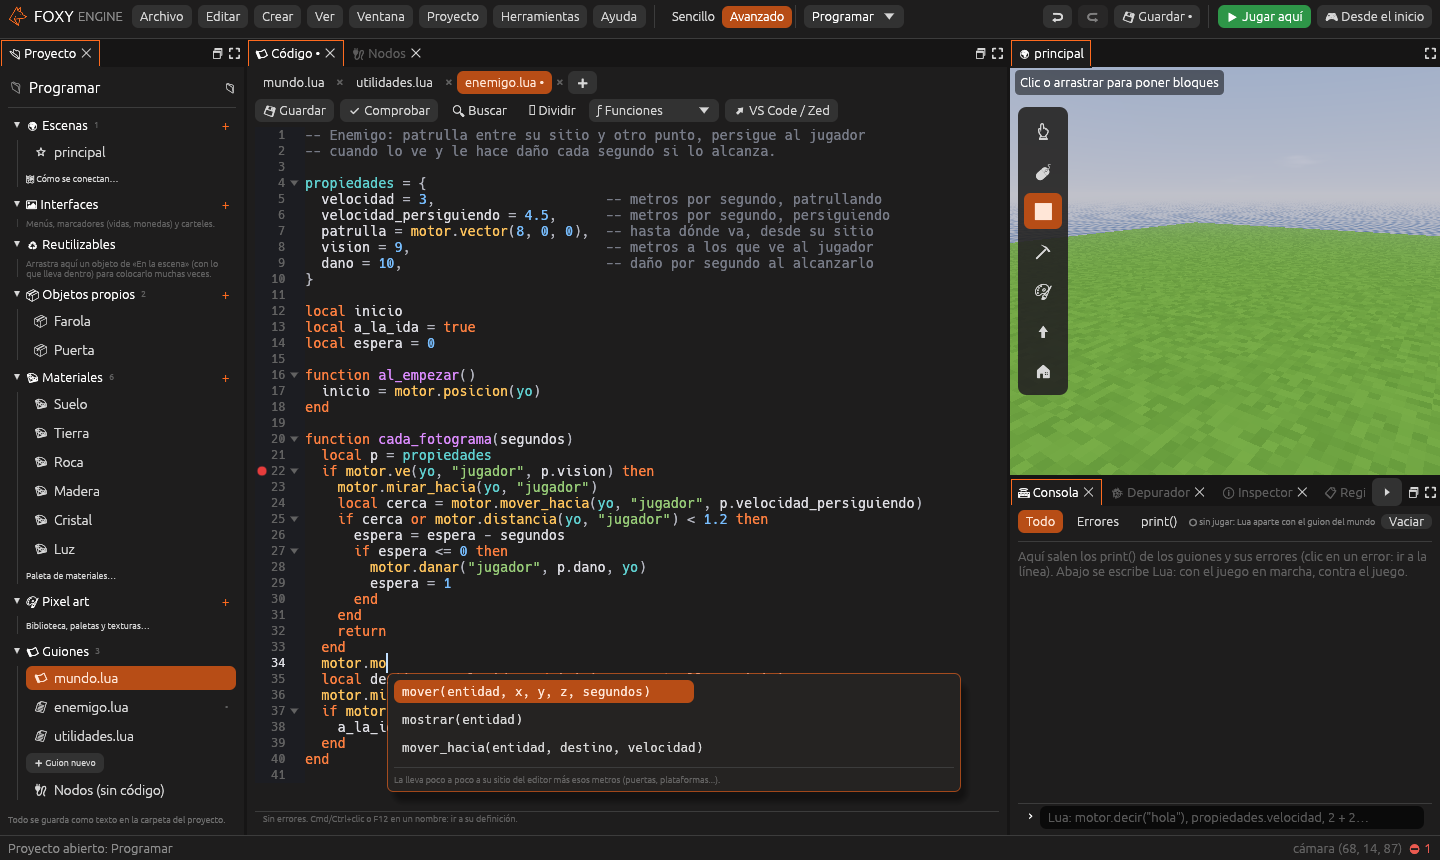
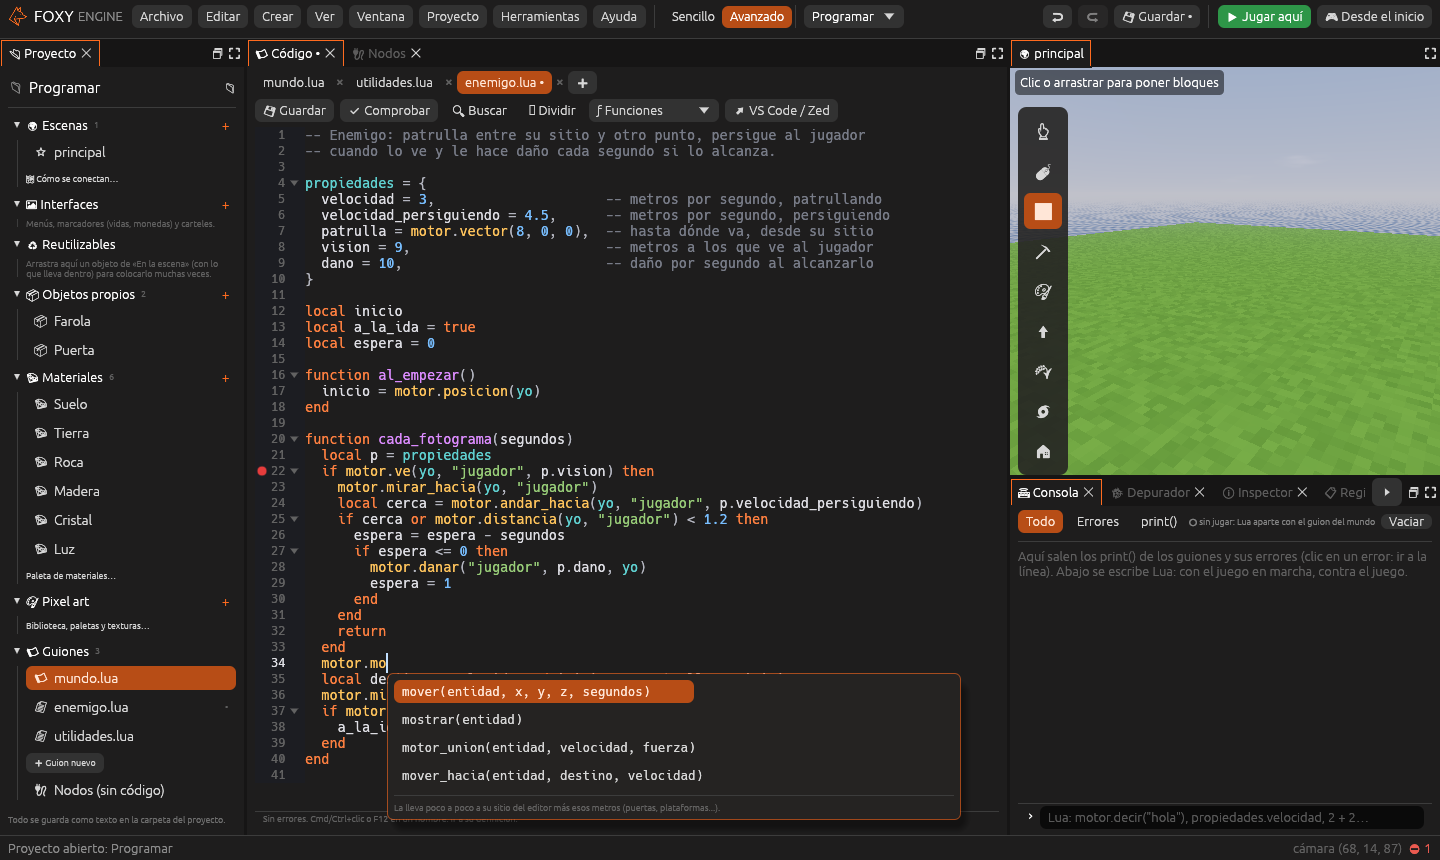
Personajes que andan: guía nueva, Andar hacia en los tutoriales y referencias (#32)
Claude-Session: https://claude.ai/code/session_0188fnkqtzzk6D1ckypk5nJD

Changed region(s): [[0.2812, 0.8465, 0.5, 0.9674], [0.6875, 0.4233, 0.75, 0.5744], [0.3438, 0.5744, 0.375, 0.6047]]

diff --git a/src/guia/personajes-que-andan.md b/src/guia/personajes-que-andan.md
@@ -1,0 +1,108 @@
+# Personajes que andan
+
+Un enemigo que persigue, un animal que patrulla o un vecino que pasea
+tienen que **pisar el suelo y esquivar lo que hay en medio**. Para eso
+está **Andar hacia**: el objeto anda hasta un destino como lo haría un
+personaje de verdad.
+
+| Qué hace | Cómo |
+|---|---|
+| Pisa el suelo | Cae si no hay suelo debajo y sigue el terreno al subir y bajar |
+| Sube escalones | Los de medio metro los sube andando |
+| Salta bordillos | Salta lo que mide hasta un metro de alto |
+| Se deja caer | Baja de un salto alturas de hasta tres metros |
+| Rodea las paredes | Busca un camino por donde cabe su cuerpo: puertas, pasillos y rampas |
+| No se moja | No entra en el agua |
+| No se amontona | Dos personajes que andan no se pisan: se apartan |
+
+## Sin programar: los comportamientos ya hechos
+
+**Seguir al jugador** y **Patrullar** ya andan así.
+
+1. Elige el objeto que hará de personaje.
+2. En el [Inspector](../interfaz/inspector.md), pulsa **➕ Comportamiento →
+   Ya hechos → Seguir al jugador** (o **Patrullar**).
+3. Pulsa **Jugar aquí**. El objeto anda por el suelo y rodea las paredes
+   para llegar.
+
+Para un fantasma, un pájaro o un dron, marca su valor **volando**: va en
+línea recta por el aire y lo atraviesa todo.
+
+> **Nota.** Los comportamientos se copian al proyecto al ponerlos. Un
+> proyecto que ya tenía **Seguir al jugador** o **Patrullar** conserva los
+> suyos, que van en línea recta. Para que anden, abre el grafo en el panel
+> **Nodos** y cambia el nodo **Ir hacia** por **Andar hacia**, o borra el
+> archivo de `grafos/` y vuelve a poner el comportamiento.
+
+## Con nodos: Andar hacia
+
+El nodo **Andar hacia** (categoría *Objetos*) se usa después de **Cada
+fotograma**, igual que **Ir hacia**.
+
+| Pin | Qué es |
+|---|---|
+| *objeto* | Quién anda. Vacío es *este objeto* |
+| *destino* | A dónde va: un punto, o **Posición del jugador** para perseguirlo |
+| *metros por segundo* | La velocidad. Una persona anda a 1,5 y corre a 4 |
+| *ha llegado* | Sí cuando está en el destino o cuando no puede acercarse más |
+
+Mientras el nodo se ejecuta, el objeto anda y mira hacia donde va. Cuando
+deja de ejecutarse, se para. Si el suelo desaparece bajo sus pies, cae.
+
+El [tutorial del enemigo que persigue](tutorial-enemigo.md) lo usa de
+principio a fin.
+
+## Con Lua: motor.andar_hacia
+
+```lua
+propiedades = {
+  velocidad = 3,   -- metros por segundo
+}
+
+function cada_fotograma(segundos)
+  if motor.andar_hacia(yo, "jugador", propiedades.velocidad) then
+    motor.decir("Te tengo")
+  end
+end
+```
+
+`motor.andar_hacia(objeto, destino, velocidad)` devuelve `true` al llegar
+o cuando no hay forma de acercarse más. El destino puede ser un vector, un
+objeto o `"jugador"`.
+
+## Andar hacia o Ir hacia
+
+| | Andar hacia | Ir hacia |
+|---|---|---|
+| Camino | Por el suelo, rodeando lo que estorba | En línea recta |
+| Paredes y suelo | Choca con ellos | Los atraviesa |
+| Caer | Sí | No |
+| Para | Personas, animales, enemigos, robots con patas | Fantasmas, pájaros, drones, balas, plataformas |
+
+## Lo que conviene saber
+
+- **El tamaño cuenta.** El cuerpo mide lo que el objeto. Uno ancho no
+  pasa por una puerta estrecha, y uno alto no pasa bajo un techo bajo.
+- **Con qué choca.** Con el terreno y con los objetos quietos de la
+  escena. No choca con el jugador: para que se pare a su lado, usa el valor
+  `distancia` de **Seguir al jugador**.
+- **Si no puede llegar**, se acerca todo lo que puede y espera. Vuelve a
+  buscar camino cuando el destino se mueve.
+- **Lejos, busca menos.** El camino se busca en los alrededores del
+  personaje. Si el destino queda detrás de un laberinto largo, va hasta el
+  sitio más cercano que encuentra y sigue buscando desde allí.
+- **Muchos a la vez.** Los caminos largos se reparten entre fotogramas,
+  así que una manada no frena el juego.
+- **En escenas 2D**, **Andar hacia** hace lo mismo que **Ir hacia**. En 2D,
+  el suelo y la gravedad son cosa del
+  [cuerpo de cada sprite](juegos-2d.md).
+- **Con [físicas precisas](fisicas.md)**, da al personaje un cuerpo
+  **Cinemático** para que empuje cajas al andar. Un cuerpo **Dinámico** lo
+  mueve la física, no **Andar hacia**.
+
+## Véase también
+
+- [Comportamientos](comportamientos.md)
+- [Tutorial: un enemigo que persigue](tutorial-enemigo.md)
+- [Referencia de nodos](../referencia/nodos.md)
+- [Referencia de Lua](../referencia/lua.md)

diff --git a/src/referencia/api-lua.md b/src/referencia/api-lua.md
@@ -82,7 +82,8 @@ Se escriben en el guion; todas son opcionales. En un guion de entidad, las de ch
 | `motor.nombre(entidad: objeto)` | nombre (texto) | Su nombre en la escena. |
 | `motor.posicion(entidad: objeto)` | posicion (vector) | Dónde está ahora el objeto (sus pies), en metros. |
 | `motor.poner_posicion(entidad: objeto, posicion: vector)` | — | Lleva el objeto a ese sitio de golpe. Con el jugador, lo teletransporta. |
-| `motor.mover_hacia(entidad: objeto, destino: vector, velocidad: número)` | llegado (sí/no) | Da un paso hacia el destino, a esa velocidad. Úsalo en «Cada fotograma» para que vaya andando. |
+| `motor.mover_hacia(entidad: objeto, destino: vector, velocidad: número)` | llegado (sí/no) | Da un paso en línea recta hacia el destino, a esa velocidad, atravesando lo que haya (para lo que vuela o flota). Para personajes que pisan el suelo usa «Andar hacia». |
+| `motor.andar_hacia(entidad: objeto, destino: vector, velocidad: número)` | llegado (sí/no) | Anda por el suelo hacia el destino: cae si no hay suelo, sube escalones, salta un bordillo y rodea las paredes. Para enemigos, animales y personajes. Úsalo en «Cada fotograma». «Ha llegado» también es sí cuando no puede acercarse más. |
 | `motor.mirar_hacia(entidad: objeto, punto: vector)` | — | Gira el objeto para que mire a ese punto. |
 | `motor.mover(entidad: objeto, x: número, y: número, z: número, segundos: número)` | — | La lleva poco a poco a su sitio del editor más esos metros (puertas, plataformas...). |
 | `motor.ocultar(entidad: objeto)` | — | El objeto deja de verse y de chocar. |

diff --git a/src/guia/tutorial-enemigo.md b/src/guia/tutorial-enemigo.md
@@ -57,7 +57,7 @@ patrullar un recorrido distinto.
 Desde la salida **sí** del *Si*:
 
 1. **Mirar hacia**, con **Posición del jugador** en su entrada *punto*.
-2. **Ir hacia**, con la misma *Posición del jugador* en *destino* y
+2. **Andar hacia**, con la misma *Posición del jugador* en *destino* y
    *metros por segundo* en `4`.
 3. Otro **Si**. Para su condición, añade **Distancia** con **El jugador**
    en *a* y **Este objeto** en *b*, y llévala a un **Comparar** con el
@@ -71,6 +71,9 @@ Desde la salida **sí** del *Si*:
 La puerta hace que el lobo golpee como mucho una vez por segundo, aunque la
 cadena pase 60 veces por segundo.
 
+> **Nota.** **Andar hacia** lleva al lobo por el suelo y rodeando las
+> paredes. Ver [Personajes que andan](personajes-que-andan.md).
+
 ## 6. Patrullar
 
 Desde la salida **no** del primer *Si*:
@@ -80,8 +83,8 @@ Desde la salida **no** del primer *Si*:
    las tres cosas a un **Uno u otro**: *si* ← `a_la_ida`, *entonces* ← la
    suma, *si no* ← `inicio`.
 2. **Mirar hacia** con ese destino en *punto*.
-3. **Ir hacia** con el mismo destino y *metros por segundo* en `2`.
-4. Un **Si** con la salida *ha llegado* de *Ir hacia* como condición. De su
+3. **Andar hacia** con el mismo destino y *metros por segundo* en `2`.
+4. Un **Si** con la salida *ha llegado* de *Andar hacia* como condición. De su
    salida *sí*, **Poner a_la_ida** con un **No** de `a_la_ida` como valor:
    al llegar a un extremo, da la vuelta.
 

diff --git a/src/referencia/nodos.md b/src/referencia/nodos.md
@@ -1226,7 +1226,7 @@ En Lua: `motor.poner_posicion(entidad, posicion)`
 
 *Acción* · `motor.mover_hacia`
 
-Da un paso hacia el destino, a esa velocidad. Úsalo en «Cada fotograma» para que vaya andando.
+Da un paso en línea recta hacia el destino, a esa velocidad, atravesando lo que haya (para lo que vuela o flota). Para personajes que pisan el suelo usa «Andar hacia».
 
 | Pin | Nombre | Tipo | Valor de partida |
 |---|---|---|---|
@@ -1236,6 +1236,21 @@ Da un paso hacia el destino, a esa velocidad. Úsalo en «Cada fotograma» para 
 | Salida | ha llegado | sí/no | — |
 
 En Lua: `local llegado = motor.mover_hacia(entidad, destino, velocidad)`
+
+### Andar hacia {#motor-andar_hacia}
+
+*Acción* · `motor.andar_hacia`
+
+Anda por el suelo hacia el destino: cae si no hay suelo, sube escalones, salta un bordillo y rodea las paredes. Para enemigos, animales y personajes. Úsalo en «Cada fotograma». «Ha llegado» también es sí cuando no puede acercarse más.
+
+| Pin | Nombre | Tipo | Valor de partida |
+|---|---|---|---|
+| Entrada | objeto | objeto | este objeto |
+| Entrada | destino | vector | (0, 0, 0) |
+| Entrada | metros por segundo | número | 3 |
+| Salida | ha llegado | sí/no | — |
+
+En Lua: `local llegado = motor.andar_hacia(entidad, destino, velocidad)`
 
 ### Mirar hacia {#motor-mirar_hacia}
 

diff --git a/src/guia/comportamientos.md b/src/guia/comportamientos.md
@@ -85,8 +85,8 @@ grafo. Al añadir uno se copia a `grafos/` del proyecto (si no estaba ya).
 | Comportamiento | Qué hace | Valores |
 |---|---|---|
 | ⌨ **Moverse con teclas** | Se mueve con las acciones Adelante, Atrás, Izquierda y Derecha. Con `vertical`, Adelante sube (2D visto desde arriba) | `velocidad`, `vertical` |
-| 🐾 **Seguir al jugador** | Va hacia el jugador cuando está a menos de `alcance` y se para a `distancia` de él | `velocidad`, `distancia`, `alcance` |
-| ↔ **Patrullar** | Va y viene entre su sitio y su sitio más `recorrido` | `recorrido`, `velocidad` |
+| 🐾 **Seguir al jugador** | Va andando hacia el jugador cuando está a menos de `alcance` y se para a `distancia` de él. Pisa el suelo y rodea las paredes; con `volando` va en línea recta | `velocidad`, `distancia`, `alcance`, `volando` |
+| ↔ **Patrullar** | Va y viene andando entre su sitio y su sitio más `recorrido`. Pisa el suelo y rodea lo que haya en medio; con `volando` va en línea recta | `recorrido`, `velocidad`, `volando` |
 | ⟳ **Girar** | Da vueltas sobre sí mismo | `grados_por_segundo` |
 | 🎈 **Flotar** | Sube y baja despacio | `altura`, `segundos_por_vuelta` |
 | 🪙 **Recoger** | Al tocarlo el jugador, suma `cantidad` al valor `valor` (monedas, gemas…), suena y desaparece | `valor`, `cantidad`, `sonido` |

diff --git a/src/referencia/lua.md b/src/referencia/lua.md
@@ -98,7 +98,8 @@ Sonidos de ejemplo: `paso`, `salto`, `caida`, `patada`, `hablar`, `trueno`,
 | `motor.nombre(e)` | El nombre de un objeto |
 | `motor.posicion(e)` | Dónde está, como vector |
 | `motor.poner_posicion(e, v)` | La pone en ese sitio al momento |
-| `motor.mover_hacia(e, destino, velocidad)` | La acerca al destino a esa velocidad (metros por segundo; por defecto 3). Úsala en `cada_fotograma`. Devuelve `true` al llegar |
+| `motor.andar_hacia(e, destino, velocidad)` | La lleva andando por el suelo hacia el destino (metros por segundo; por defecto 3): cae, sube escalones, salta un bordillo y rodea las paredes. Úsala en `cada_fotograma`. Devuelve `true` al llegar o cuando no puede acercarse más. Ver [Personajes que andan](../guia/personajes-que-andan.md) |
+| `motor.mover_hacia(e, destino, velocidad)` | La acerca al destino en línea recta, atravesando lo que haya (para lo que vuela o flota). Úsala en `cada_fotograma`. Devuelve `true` al llegar |
 | `motor.mirar_hacia(e, punto)` | La gira para que mire hacia ese punto |
 | `motor.ve(e, objetivo, alcance)` | `true` si el objetivo (por defecto, el jugador) está a menos de `alcance` metros (por defecto 8) y no está oculto |
 | `motor.mover(nombre, x, y, z, segundos)` | Desplaza el objeto desde su sitio del editor. Con `0, 0, 0` vuelve a su sitio |

diff --git a/src/guia/tutorial-enemigo-lua.md b/src/guia/tutorial-enemigo-lua.md
@@ -54,7 +54,7 @@ function cada_fotograma(segundos)
   local p = propiedades
   if motor.ve(yo, "jugador", p.vision) then
     motor.mirar_hacia(yo, "jugador")
-    local cerca = motor.mover_hacia(yo, "jugador", p.velocidad_persiguiendo)
+    local cerca = motor.andar_hacia(yo, "jugador", p.velocidad_persiguiendo)
     if cerca or motor.distancia(yo, "jugador") < 1.2 then
       espera = espera - segundos
       if espera <= 0 then
@@ -66,7 +66,7 @@ function cada_fotograma(segundos)
   end
   local destino = a_la_ida and inicio + p.patrulla or inicio
   motor.mirar_hacia(yo, destino)
-  if motor.mover_hacia(yo, destino, p.velocidad) then
+  if motor.andar_hacia(yo, destino, p.velocidad) then
     a_la_ida = not a_la_ida
   end
 end
@@ -104,7 +104,7 @@ end
 ## 5. Arreglar un error jugando
 
 1. En `cada_fotograma`, cambia `p.velocidad` por `rapidez` en la última
-   llamada a `motor.mover_hacia` y guarda.
+   llamada a `motor.andar_hacia` y guarda.
 2. La consola enseña en rojo un error como «guiones/enemigo.lua:37: attempt
    to perform arithmetic on a nil value (global 'rapidez')», con el archivo
    y la línea. El lobo se queda quieto, pero el juego sigue.

diff --git a/src/apendices/historial.md b/src/apendices/historial.md
@@ -5,6 +5,16 @@ Foxy Engine se construye por fases. Cada fase deja el motor funcionando.
 La versión que sale al abrir el editor, como `0.0.1-PR15`, junta la versión
 del motor con el número del último cambio (*pull request*) incorporado.
 
+## Personajes que andan
+
+- **[Andar hacia](../guia/personajes-que-andan.md)**: un nodo nuevo y
+  `motor.andar_hacia` en Lua. El objeto pisa el suelo, cae, sube escalones,
+  salta bordillos y rodea las paredes buscando un camino. Antes, los
+  enemigos y los personajes iban en línea recta y lo atravesaban todo.
+- Los comportamientos ya hechos **Seguir al jugador** y **Patrullar** andan
+  así. Con su valor nuevo `volando` van en línea recta, como antes.
+- **Ir hacia** sigue igual, para lo que vuela o flota.
+
 ## Fase P: Demostraciones y manual
 
 - **[La cueva](../demos/cueva.md)**: la imagen de referencia del motor

diff --git a/src/SUMMARY.md b/src/SUMMARY.md
@@ -95,6 +95,7 @@
 - [Físicas precisas](guia/fisicas.md)
 - [Comportamientos](guia/comportamientos.md)
     - [Objetos que se hablan](guia/objetos-que-se-hablan.md)
+    - [Personajes que andan](guia/personajes-que-andan.md)
 - [Juegos 2D](guia/juegos-2d.md)
     - [Sprites](guia/sprites.md)
     - [Mapas de casillas](guia/casillas.md)

diff --git a/src/guia/guiones-entidad.md b/src/guia/guiones-entidad.md
@@ -94,7 +94,7 @@ duran toda la partida. Sirven para recordar cosas entre fotogramas:
 local a_la_ida = true
 
 function cada_fotograma(segundos)
-  if motor.mover_hacia(yo, destino, propiedades.velocidad) then
+  if motor.andar_hacia(yo, destino, propiedades.velocidad) then
     a_la_ida = not a_la_ida
   end
 end
